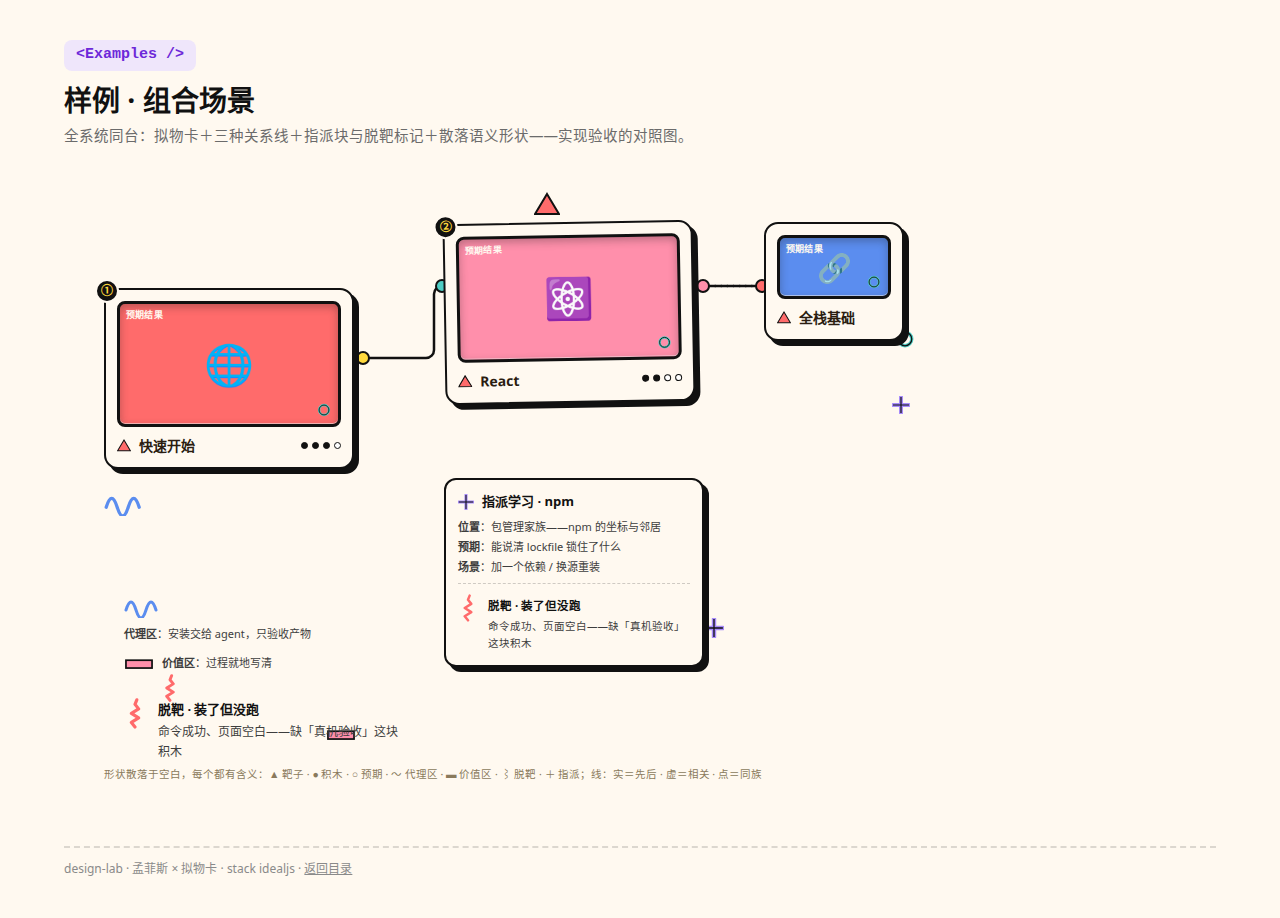
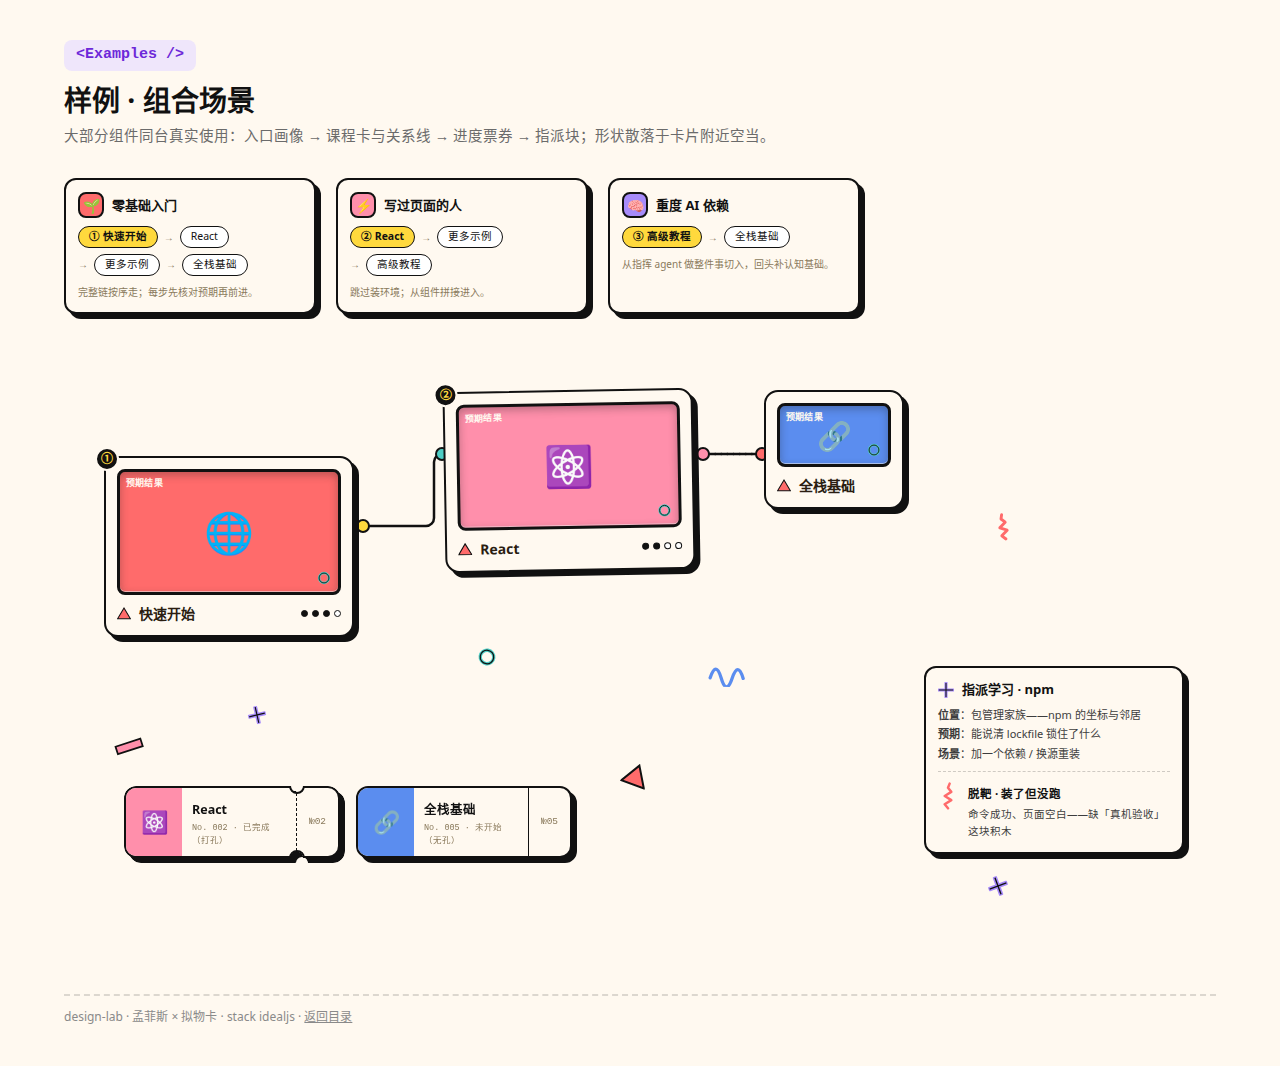
refactor: 样例页改纯组合场景（全组件真实使用，删解释性标注），新增 Scatter——形状散落=卡片附近空当+种子随机旋转/落点；E2E 加摆放契约

Changed region(s): [[0.0312, 0.0305, 0.7188, 0.854], [0.7188, 0.61, 0.9375, 0.8235], [0.0312, 0.915, 0.2812, 0.976]]

diff --git a/apps/design-lab/src/pages/shelf/App.tsx b/apps/design-lab/src/pages/shelf/App.tsx
@@ -1,9 +1,13 @@
+/** 组合场景＝大部分组件拿出来的真实使用，不做解释性标注：
+ * 入口画像 → 课程卡与关系线 → 进度票券 → 指派块；形状散落于卡片附近空当。 */
 import { Page } from '../../lib/ui'
 import { ASSIGNMENT, CHAPTERS, EDGES } from '../../lib/chapters'
 import { MemphisCard } from '../../components/MemphisCard'
 import { RouteLine } from '../../components/RouteLine'
-import { AssignBlock } from '../../components/Ticket'
-import { Bar, Cross, MissMark, Ring, Tremble, Tri, Wave } from '../../components/shapes'
+import { AssignBlock, Ticket } from '../../components/Ticket'
+import { EntryGuide } from '../../components/EntryGuide'
+import { Scatter } from '../../components/Scatter'
+import { Bar, Cross, Ring, Tremble, Tri, Wave } from '../../components/shapes'
 
 /* 场景坐标（复刻已验收组合）：卡1(40,110,250) 卡2(380,44,250,rot) 卡3(700,44,140) */
 const nodes = {
@@ -12,37 +16,35 @@ const nodes = {
   5: { id: 5, borderLeft: 698, right: 848, y: 108 },
 } as const
 
-const SCATTER = [
-  { el: <Tri size={26} />, x: 470, y: 14 },
-  { el: <Ring size={22} />, x: 830, y: 150 },
-  { el: <Cross size={20} />, x: 640, y: 440 },
-  { el: <Cross size={18} />, x: 828, y: 218 },
-  { el: <Wave size={44} />, x: 40, y: 316 },
-  { el: <Bar size={30} />, x: 262, y: 548 },
-  { el: <Tremble size={20} />, x: 96, y: 496 },
-]
-
 export function App() {
   return (
-    <Page tag="<Examples />" title="样例 · 组合场景" desc="全系统同台：拟物卡＋三种关系线＋指派块与脱靶标记＋散落语义形状——实现验收的对照图。">
-      <div className="relative h-[620px] overflow-hidden rounded-2xl bg-paper">
-        <RouteLine edges={EDGES} nodes={nodes} width={1160} height={620} />
-        {SCATTER.map((s, i) => (
-          <div key={i} className="absolute" style={{ left: s.x, top: s.y }}>{s.el}</div>
-        ))}
+    <Page
+      tag="<Examples />"
+      title="样例 · 组合场景"
+      desc="大部分组件同台真实使用：入口画像 → 课程卡与关系线 → 进度票券 → 指派块；形状散落于卡片附近空当。"
+    >
+      <EntryGuide />
+      <div className="relative mt-8 h-[600px] overflow-hidden rounded-2xl bg-paper">
+        <Scatter
+          shapes={[
+            <Tri size={26} key="tri" />,
+            <Ring size={22} key="ring" />,
+            <Cross size={20} key="cross1" />,
+            <Cross size={18} key="cross2" />,
+            <Wave size={44} key="wave" />,
+            <Bar size={30} key="bar" />,
+            <Tremble size={20} key="tremble" />,
+          ]}
+        />
+        <RouteLine edges={EDGES} nodes={nodes} width={1160} height={600} />
         <div className="absolute left-[40px] top-[110px] w-[250px]"><MemphisCard chapter={CHAPTERS[1]} entry={1} /></div>
         <div className="absolute left-[380px] top-[44px] w-[250px] -rotate-1"><MemphisCard chapter={CHAPTERS[2]} entry={2} /></div>
         <div className="absolute left-[700px] top-[44px] w-[140px]"><MemphisCard chapter={CHAPTERS[5]} compact /></div>
-        <div className="absolute left-[380px] top-[300px]"><AssignBlock {...ASSIGNMENT} /></div>
-        <div className="absolute left-[60px] top-[420px] w-[280px]">
-          <div className="mb-2"><Wave size={40} /></div>
-          <p className="m-0 text-[11px] text-body"><b>代理区</b>：安装交给 agent，只验收产物</p>
-          <div className="mt-3 flex items-center gap-2"><Bar size={30} /><span className="text-[11px] text-body"><b>价值区</b>：过程就地写清</span></div>
-          <div className="mt-6"><MissMark how="装了但没跑" looks={ASSIGNMENT.miss.looks} /></div>
+        <div className="absolute left-[860px] top-[320px]"><AssignBlock {...ASSIGNMENT} /></div>
+        <div className="absolute left-[60px] top-[440px] flex gap-4">
+          <Ticket chapter={CHAPTERS[2]} done />
+          <Ticket chapter={CHAPTERS[5]} done={false} />
         </div>
-        <p className="absolute bottom-4 left-[40px] m-0 text-[10.5px] text-mute">
-          形状散落于空白，每个都有含义：▲ 靶子 · ● 积木 · ○ 预期 · ～ 代理区 · ▬ 价值区 · ⌇ 脱靶 · ＋ 指派；线：实＝先后 · 虚＝相关 · 点＝同族
-        </p>
       </div>
     </Page>
   )

diff --git a/apps/design-lab/src/components/Scatter.tsx b/apps/design-lab/src/components/Scatter.tsx
@@ -1,0 +1,90 @@
+/** 散落形状摆放——「卡片附近空当 ＋ 随机」：
+ * 网格采样容器空白 → 过滤出距内容盒（[data-comp]）≤ near 的空当（不胡乱撒）→
+ * 种子随机挑位（彼此保距）＋空当内随机偏移＋随机旋转。
+ * 种子固定 → 每次渲染一致（视觉基线可测）；容器重排（ResizeObserver）自动重算。 */
+import { useLayoutEffect, useRef, useState, type ReactNode } from 'react'
+
+function mulberry32(seed: number) {
+  let t = seed >>> 0
+  return () => {
+    t = (t + 0x6d2b79f5) >>> 0
+    let x = Math.imul(t ^ (t >>> 15), 1 | t)
+    x = (x + Math.imul(x ^ (x >>> 7), 61 | x)) ^ x
+    return ((x ^ (x >>> 14)) >>> 0) / 4294967296
+  }
+}
+
+type Place = { x: number; y: number; rot: number }
+
+export function Scatter({
+  shapes,
+  seed = 7,
+  near = 150,  // 空当须距某内容盒 ≤ near——只散在卡片附近
+  margin = 34, // 与内容盒保持的最小间隙（≥ 最大形状半对角）
+  step = 30,   // 采样网格密度
+  minGap = 80, // 形状彼此最小间距
+}: {
+  shapes: ReactNode[]
+  seed?: number
+  near?: number
+  margin?: number
+  step?: number
+  minGap?: number
+}) {
+  const layerRef = useRef<HTMLDivElement>(null)
+  const [places, setPlaces] = useState<Place[]>([])
+
+  useLayoutEffect(() => {
+    const layer = layerRef.current
+    const host = layer?.parentElement
+    if (!layer || !host) return
+
+    const place = () => {
+      const hb = host.getBoundingClientRect()
+      const rects = [...host.querySelectorAll('[data-comp]')].map((el) => el.getBoundingClientRect())
+      if (!rects.length || !hb.width) return
+      const dist = (x: number, y: number, r: DOMRect) =>
+        Math.hypot(Math.max(r.left - x, 0, x - r.right), Math.max(r.top - y, 0, y - r.bottom))
+      const cand: { x: number; y: number }[] = []
+      for (let x = 36; x < hb.width - 36; x += step)
+        for (let y = 36; y < hb.height - 36; y += step) {
+          const px = hb.left + x
+          const py = hb.top + y
+          if (rects.every((r) => dist(px, py, r) >= margin) && rects.some((r) => dist(px, py, r) <= near))
+            cand.push({ x, y })
+        }
+      const rnd = mulberry32(seed)
+      for (let i = cand.length - 1; i > 0; i--) {
+        const j = Math.floor(rnd() * (i + 1))
+        ;[cand[i], cand[j]] = [cand[j], cand[i]]
+      }
+      const taken: Place[] = []
+      for (const c of cand) {
+        if (taken.length >= shapes.length) break
+        if (taken.some((t) => Math.hypot(t.x - c.x, t.y - c.y) < minGap)) continue
+        taken.push({ x: c.x + (rnd() - 0.5) * 14, y: c.y + (rnd() - 0.5) * 14, rot: Math.round((rnd() - 0.5) * 52) })
+      }
+      setPlaces(taken)
+    }
+
+    place()
+    const ro = new ResizeObserver(place)
+    ro.observe(host)
+    return () => ro.disconnect()
+  }, [seed, near, margin, step, minGap, shapes.length])
+
+  return (
+    <div ref={layerRef} data-scatter-layer aria-hidden className="pointer-events-none absolute inset-0">
+      {places.map((p, i) => (
+        <div
+          key={i}
+          data-scatter
+          className="absolute"
+          style={{ left: p.x, top: p.y, transform: `translate(-50%, -50%) rotate(${p.rot}deg)` }}
+        >
+          {shapes[i]}
+        </div>
+      ))}
+    </div>
+  )
+}

diff --git a/apps/design-lab/e2e/pages.spec.ts b/apps/design-lab/e2e/pages.spec.ts
@@ -139,6 +139,44 @@ test.describe('RouteLine 规格契约', () => {
   })
 })
 
+test.describe('散落形状摆放契约', () => {
+  test.beforeEach(async ({ page }) => await page.goto('/shelf.html'))
+
+  test('卡片附近空当＋随机：不压卡、都在卡附近、不出容器、旋转各异', async ({ page }) => {
+    const r = await page.evaluate(() => {
+      const layer = document.querySelector('[data-scatter-layer]') as HTMLElement | null
+      if (!layer) return null
+      const host = layer.parentElement as HTMLElement
+      const hb = host.getBoundingClientRect()
+      const shapes = [...layer.querySelectorAll('[data-scatter]')] as HTMLElement[]
+      const comps = [...host.querySelectorAll('[data-comp]')].map((el) => el.getBoundingClientRect())
+      const hit = (a: DOMRect, b: DOMRect) => a.left < b.right && a.right > b.left && a.top < b.bottom && a.bottom > b.top
+      return {
+        n: shapes.length,
+        inHost: shapes.every((s) => {
+          const r = s.getBoundingClientRect()
+          return r.left >= hb.left - 1 && r.right <= hb.right + 1 && r.top >= hb.top - 1 && r.bottom <= hb.bottom + 1
+        }),
+        onComp: shapes.filter((s) => comps.some((c) => hit(s.getBoundingClientRect(), c))).length,
+        nearAll: shapes.every((s) => {
+          const r = s.getBoundingClientRect()
+          const cx = (r.left + r.right) / 2
+          const cy = (r.top + r.bottom) / 2
+          return comps.some((c) => cx >= c.left - 200 && cx <= c.right + 200 && cy >= c.top - 200 && cy <= c.bottom + 200)
+        }),
+        transforms: shapes.map((s) => s.style.transform),
+      }
+    })
+    expect(r).not.toBeNull()
+    expect(r!.n).toBeGreaterThanOrEqual(5)
+    expect(r!.inHost).toBeTruthy() // 不出场景容器
+    expect(r!.onComp).toBe(0) // 空当＝不压任何内容盒
+    expect(r!.nearAll).toBeTruthy() // 只散在卡片附近，不胡乱撒
+    expect(new Set(r!.transforms).size).toBe(r!.n) // 落点/旋转各不相同
+    r!.transforms.forEach((t) => expect(t).toMatch(/^translate\(-50%, -50%\) rotate\(-?\d+deg\)$/))
+  })
+})
+
 test.describe('票券规格契约', () => {
   test.beforeEach(async ({ page }) => await page.goto('/symbols.html'))
 

diff --git a/apps/design-lab/src/pages/symbols/App.tsx b/apps/design-lab/src/pages/symbols/App.tsx
@@ -30,7 +30,7 @@ const LINES = [
 export function App() {
   return (
     <Page tag="<Symbols />" title="符号、形状 · 装饰即语义" desc="形状对内容下定义、散落于空白；线条形式承载关系含义；票券只表达完成状态。">
-      <Section label="语义形状 ×7" note="散落只在空白，密度 ≤ 8/屏">
+      <Section label="语义形状 ×7" note="散落＝卡片附近空当＋随机旋转/落点（Scatter 种子化），密度 ≤ 8/屏">
         <div className="grid grid-cols-4 gap-3.5 md:grid-cols-7">
           {SHAPES.map((s) => (
             <div key={s.n} className="text-center">
